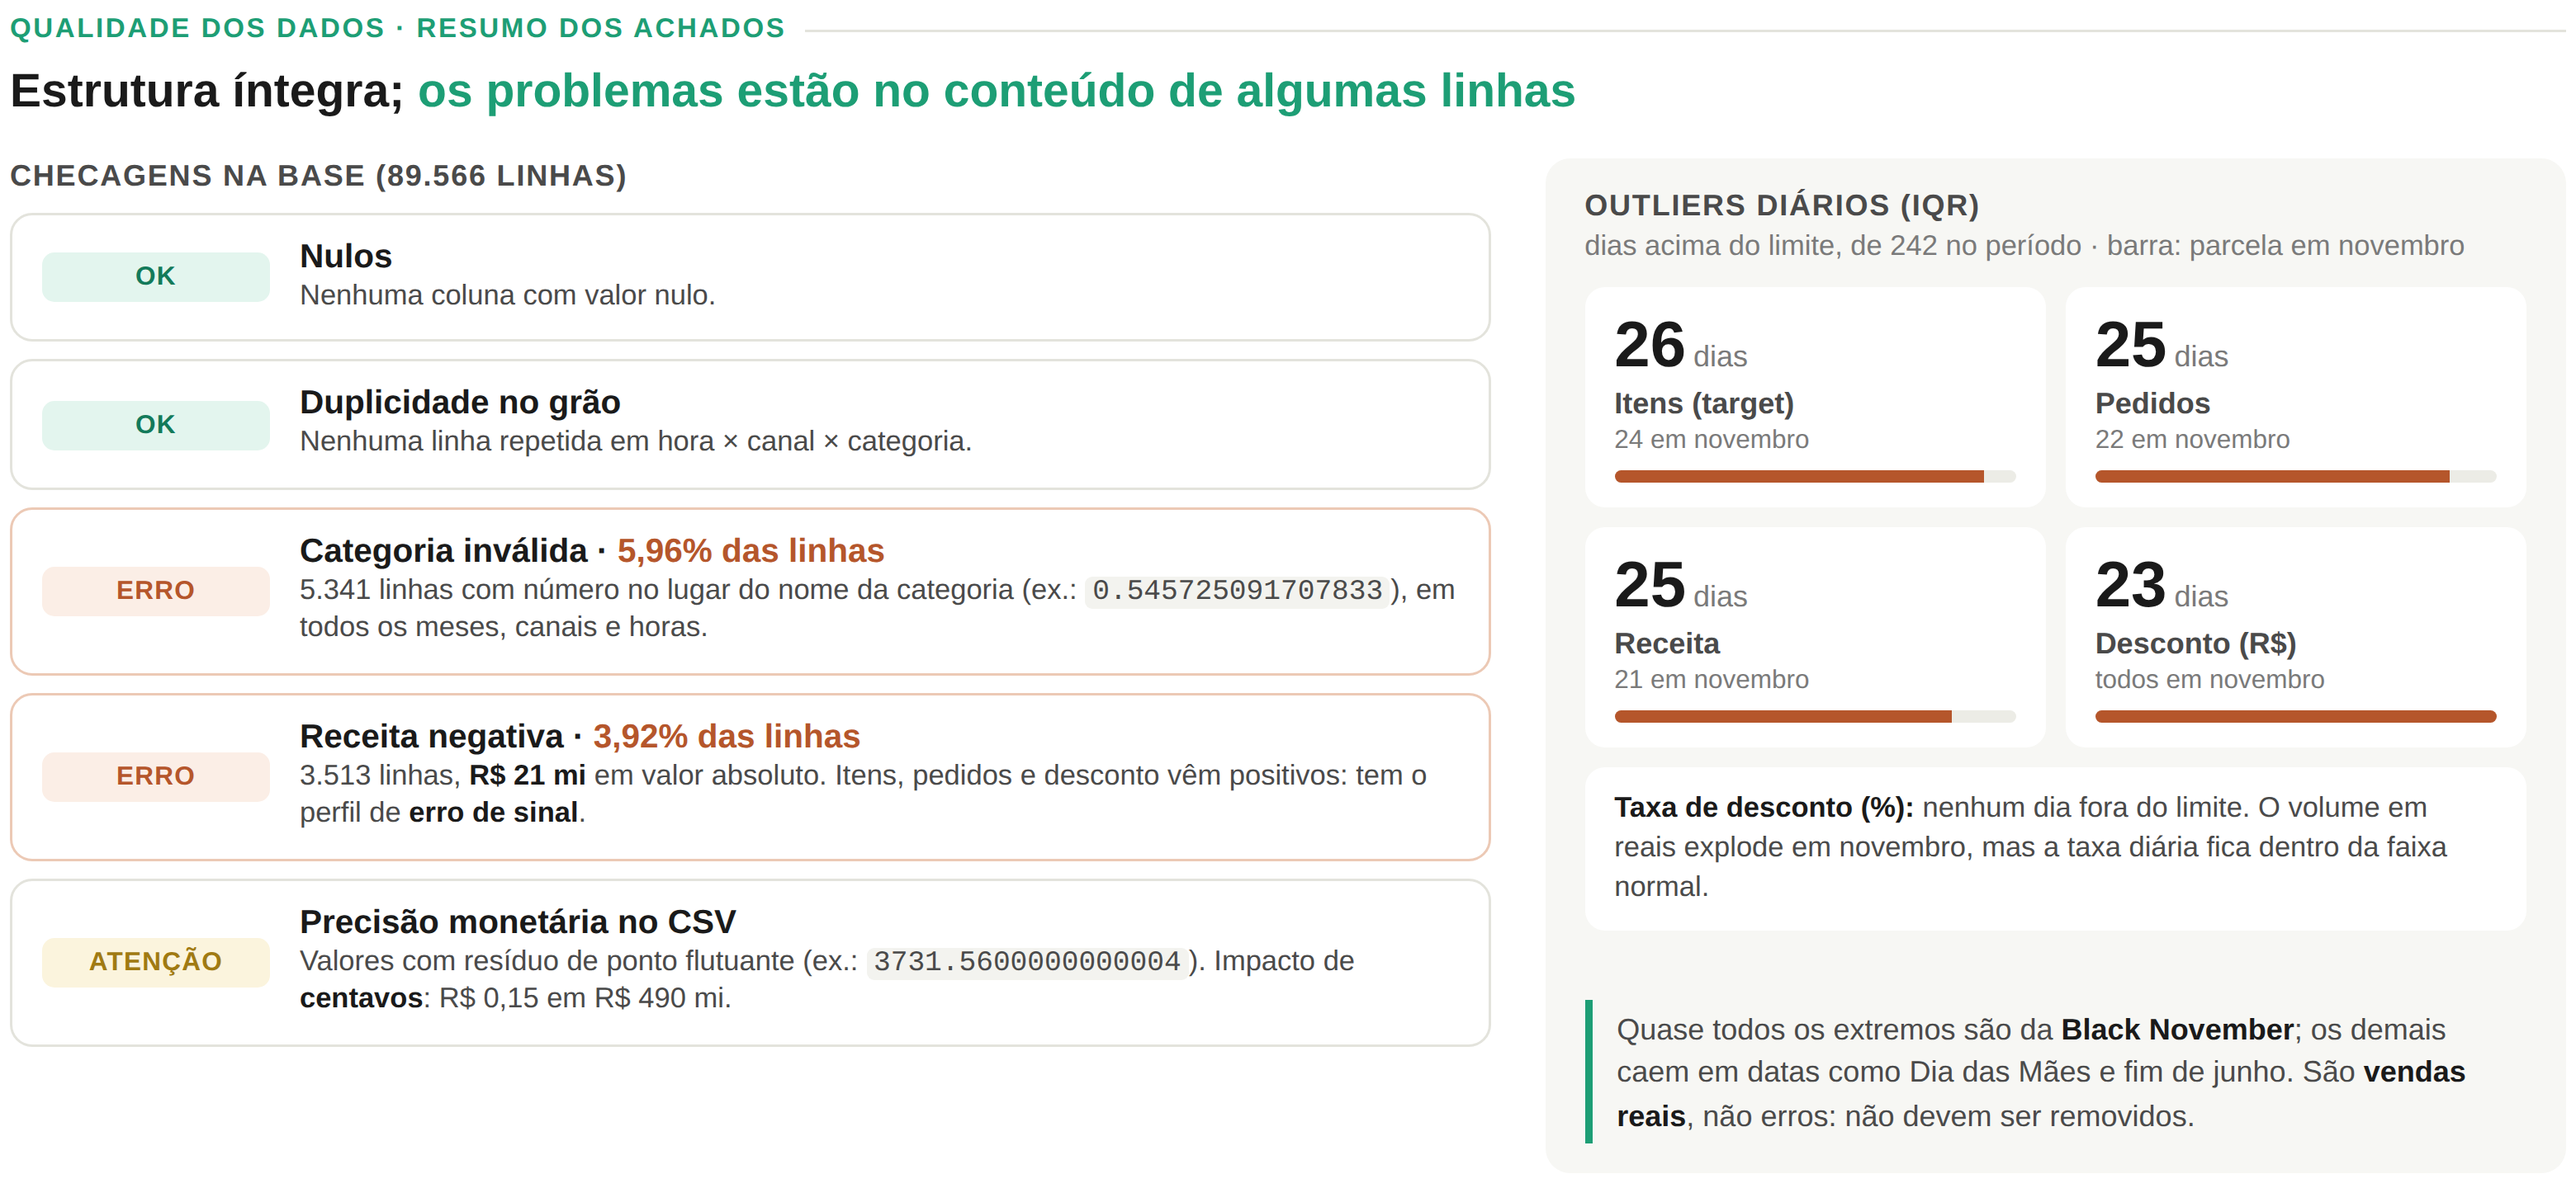
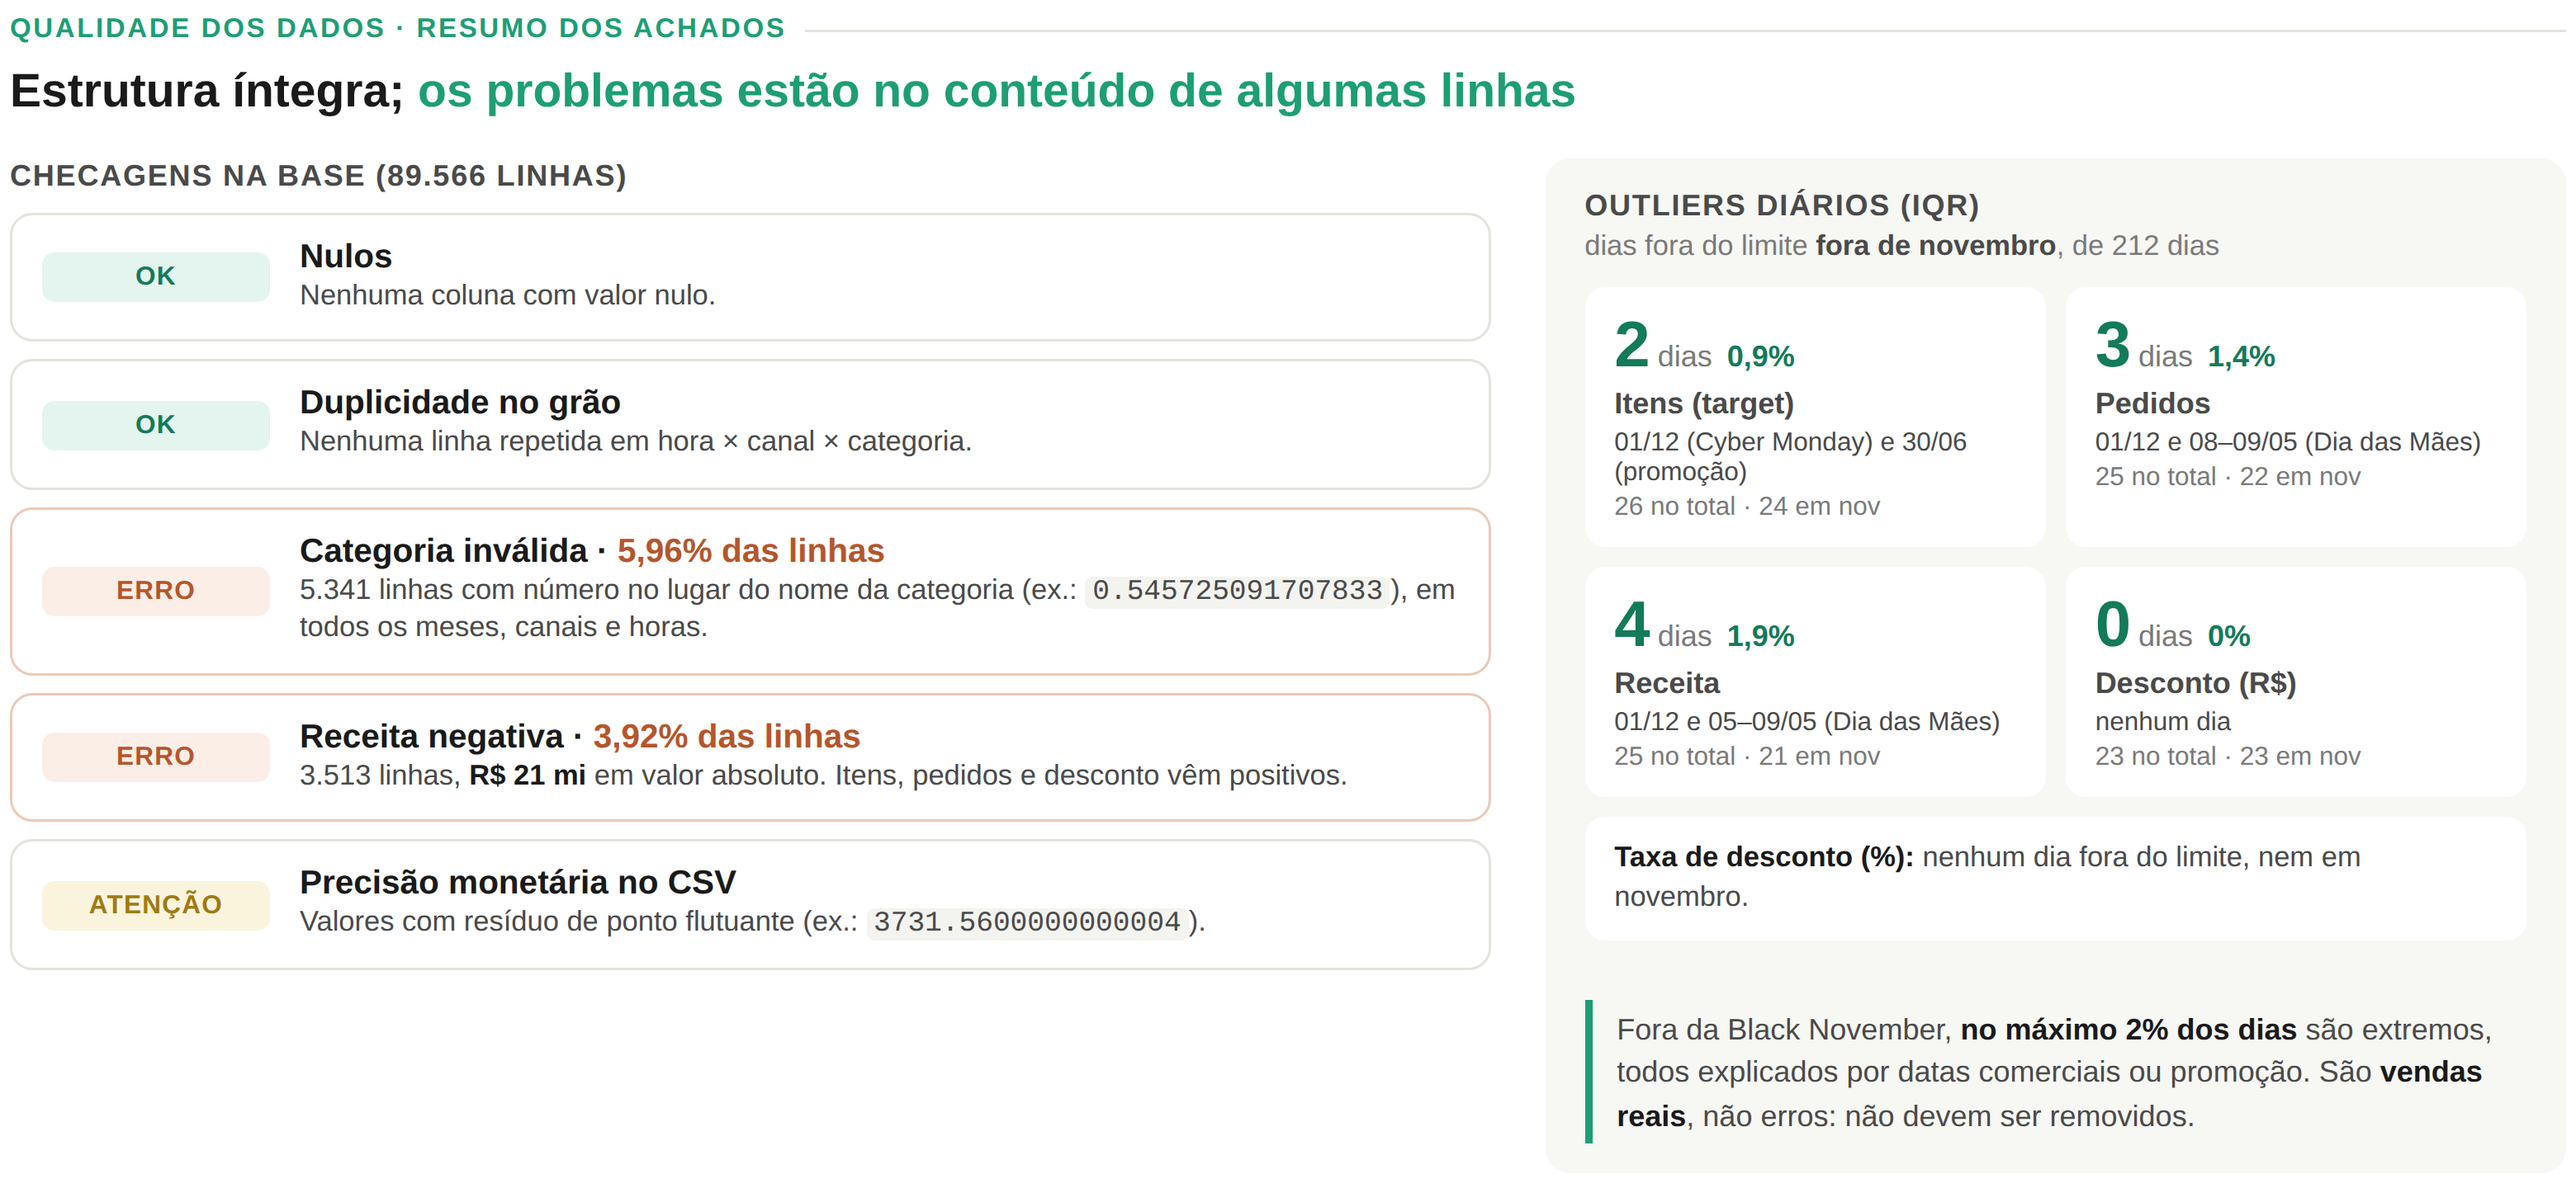
Widget de qualidade: outliers com foco nos dias fora de novembro
Claude-Session: https://claude.ai/code/session_01NUJZKTcM8cs9QBTcUeuacF

diff --git a/apresentacao/widgets/07_qualidade_resumo.html b/apresentacao/widgets/07_qualidade_resumo.html
@@ -42,6 +42,10 @@
   .barra i { display: block; height: 100%; background: var(--laranja); }
   .extra { font-size: 11.5px; color: var(--tinta-2); line-height: 1.4; background: #fff; border-radius: 8px; padding: 9px 12px; margin-top: 8px; }
   .extra b { color: var(--tinta); }
+  .tile .v { color: var(--verde-escuro); }
+  .tile .p { font-size: 12px; font-weight: 700; color: var(--verde-escuro); margin-left: 6px; }
+  .tile .d { font-size: 10.5px; color: var(--tinta-2); margin-top: 3px; }
+  .out .sub b { color: var(--tinta-2); }
   .leitura { margin-top: auto; border-left: 3px solid var(--verde); padding: 4px 0 2px 10px; font-size: 12px; line-height: 1.45; color: var(--tinta-2); }
   .leitura b { color: var(--tinta); }
 </style>
@@ -57,21 +61,21 @@
         <div class="check ok"><span class="selo">OK</span><div><h4>Nulos</h4><p>Nenhuma coluna com valor nulo.</p></div></div>
         <div class="check ok"><span class="selo">OK</span><div><h4>Duplicidade no grão</h4><p>Nenhuma linha repetida em hora × canal × categoria.</p></div></div>
         <div class="check erro"><span class="selo">Erro</span><div><h4>Categoria inválida · <span class="num">5,96% das linhas</span></h4><p>5.341 linhas com número no lugar do nome da categoria (ex.: <code>0.545725091707833</code>), em todos os meses, canais e horas.</p></div></div>
-        <div class="check erro"><span class="selo">Erro</span><div><h4>Receita negativa · <span class="num">3,92% das linhas</span></h4><p>3.513 linhas, <b>R$ 21 mi</b> em valor absoluto. Itens, pedidos e desconto vêm positivos: tem o perfil de <b>erro de sinal</b>.</p></div></div>
-        <div class="check leve"><span class="selo">Atenção</span><div><h4>Precisão monetária no CSV</h4><p>Valores com resíduo de ponto flutuante (ex.: <code>3731.5600000000004</code>). Impacto de <b>centavos</b>: R$ 0,15 em R$ 490 mi.</p></div></div>
+        <div class="check erro"><span class="selo">Erro</span><div><h4>Receita negativa · <span class="num">3,92% das linhas</span></h4><p>3.513 linhas, <b>R$ 21 mi</b> em valor absoluto. Itens, pedidos e desconto vêm positivos.</p></div></div>
+        <div class="check leve"><span class="selo">Atenção</span><div><h4>Precisão monetária no CSV</h4><p>Valores com resíduo de ponto flutuante (ex.: <code>3731.5600000000004</code>).</p></div></div>
       </div>
     </div>
     <div class="out">
       <div class="bloco-tit">Outliers diários (IQR)</div>
-      <div class="sub">dias acima do limite, de 242 no período · barra: parcela em novembro</div>
+      <div class="sub">dias fora do limite <b>fora de novembro</b>, de 212 dias</div>
       <div class="tiles">
-        <div class="tile"><div class="v">26<small>dias</small></div><div class="n">Itens (target)</div><div class="m">24 em novembro</div><div class="barra"><i style="width:92%"></i></div></div>
-        <div class="tile"><div class="v">25<small>dias</small></div><div class="n">Pedidos</div><div class="m">22 em novembro</div><div class="barra"><i style="width:88%"></i></div></div>
-        <div class="tile"><div class="v">25<small>dias</small></div><div class="n">Receita</div><div class="m">21 em novembro</div><div class="barra"><i style="width:84%"></i></div></div>
-        <div class="tile"><div class="v">23<small>dias</small></div><div class="n">Desconto (R$)</div><div class="m">todos em novembro</div><div class="barra"><i style="width:100%"></i></div></div>
+        <div class="tile"><div class="v">2<small>dias</small><span class="p">0,9%</span></div><div class="n">Itens (target)</div><div class="d">01/12 (Cyber Monday) e 30/06 (promoção)</div><div class="m">26 no total · 24 em nov</div></div>
+        <div class="tile"><div class="v">3<small>dias</small><span class="p">1,4%</span></div><div class="n">Pedidos</div><div class="d">01/12 e 08–09/05 (Dia das Mães)</div><div class="m">25 no total · 22 em nov</div></div>
+        <div class="tile"><div class="v">4<small>dias</small><span class="p">1,9%</span></div><div class="n">Receita</div><div class="d">01/12 e 05–09/05 (Dia das Mães)</div><div class="m">25 no total · 21 em nov</div></div>
+        <div class="tile"><div class="v">0<small>dias</small><span class="p">0%</span></div><div class="n">Desconto (R$)</div><div class="d">nenhum dia</div><div class="m">23 no total · 23 em nov</div></div>
       </div>
-      <div class="extra"><b>Taxa de desconto (%):</b> nenhum dia fora do limite. O volume em reais explode em novembro, mas a taxa diária fica dentro da faixa normal.</div>
-      <div class="leitura">Quase todos os extremos são da <b>Black November</b>; os demais caem em datas como Dia das Mães e fim de junho. São <b>vendas reais</b>, não erros: não devem ser removidos.</div>
+      <div class="extra"><b>Taxa de desconto (%):</b> nenhum dia fora do limite, nem em novembro.</div>
+      <div class="leitura">Fora da Black November, <b>no máximo 2% dos dias</b> são extremos, todos explicados por datas comerciais ou promoção. São <b>vendas reais</b>, não erros: não devem ser removidos.</div>
     </div>
   </div>
 </div>
